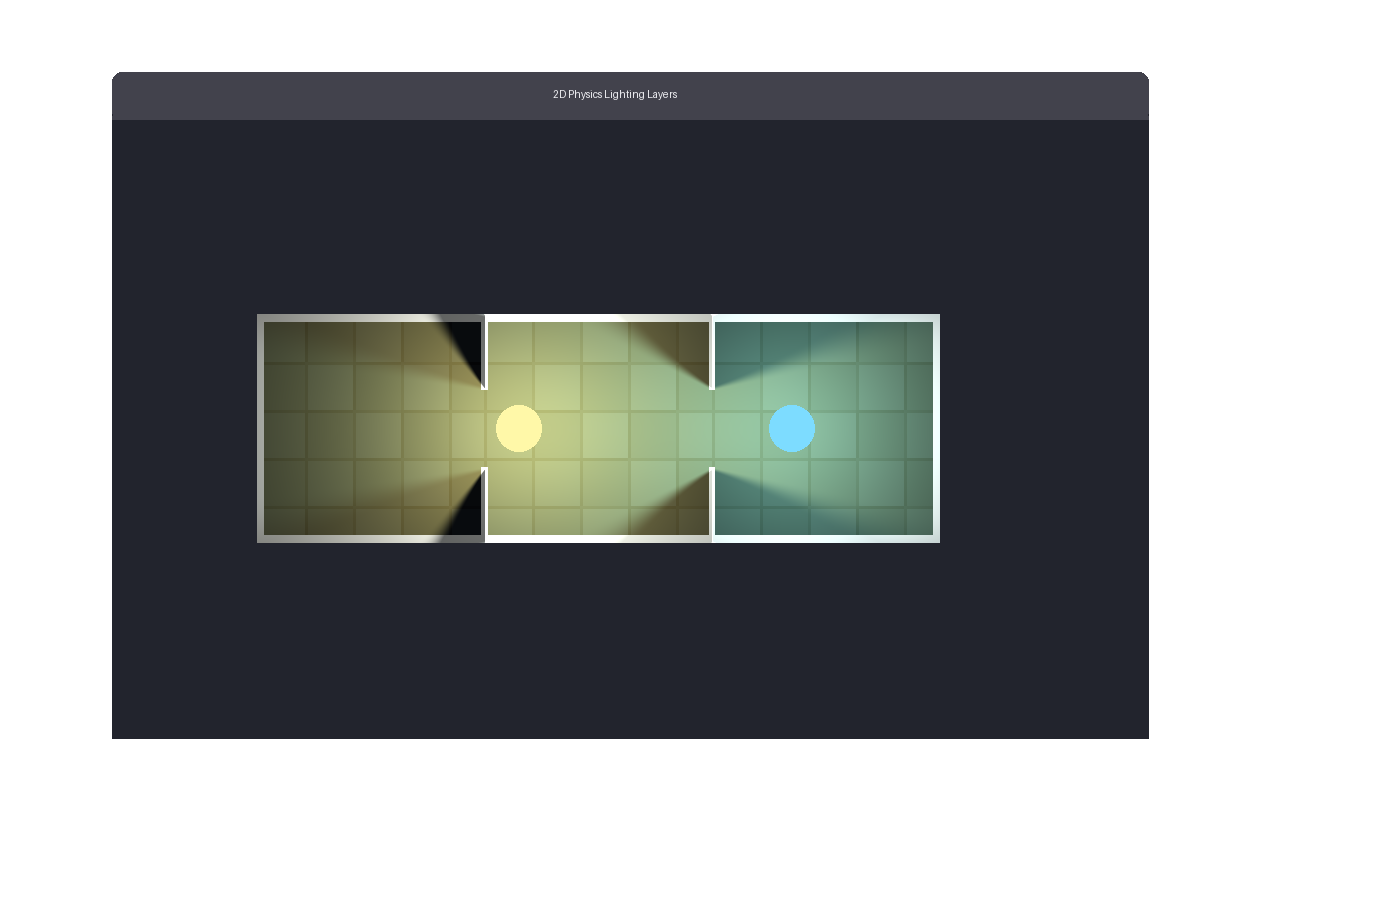
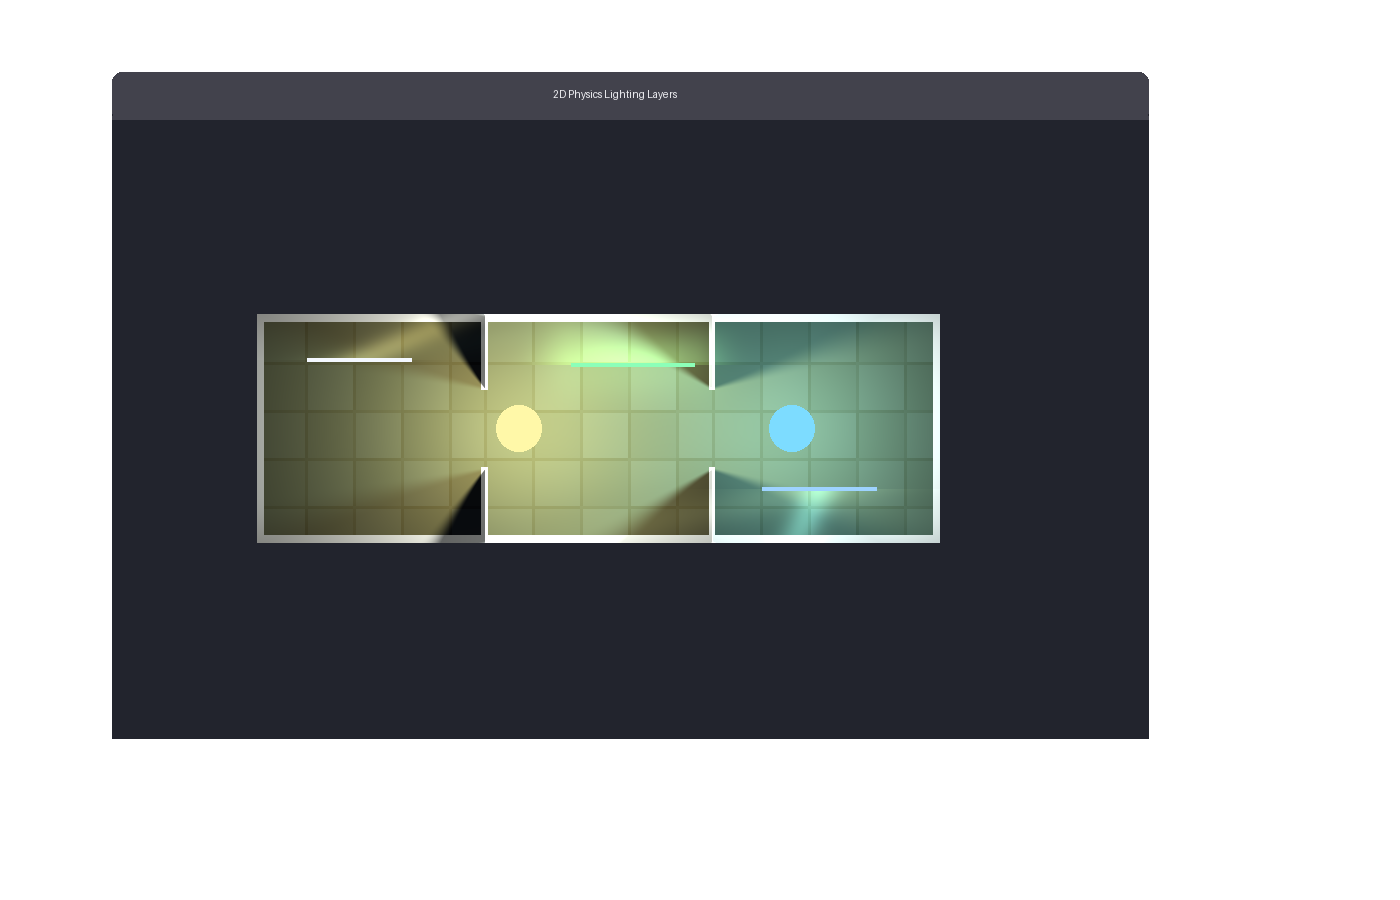
Add 2D optical mirror proof

Changed region(s): [[0.3686, 0.3422, 0.5221, 0.4356], [0.215, 0.3422, 0.3379, 0.4044], [0.5529, 0.5289, 0.6143, 0.5911]]

diff --git a/scripts/render_readme_ui_assets.py b/scripts/render_readme_ui_assets.py
@@ -62,7 +62,7 @@ README_ASSETS: tuple[ReadmeAsset, ...] = (
         marker="ui-physics-layer-lighting",
         example=REPO / "examples" / "generated" / "readme" / "ui_physics_layer_lighting.vkf",
         output_name="ui-physics-layer-lighting.png",
-        caption="`examples/generated/readme/ui_physics_layer_lighting.vkf` — 2D textured floor lighting with soft wall-shadow borders through the middle-third gap.",
+        caption="`examples/generated/readme/ui_physics_layer_lighting.vkf` — 2D textured floor lighting with soft wall-shadow borders, colored mirrors, and tinted window transmission.",
         viewport=(1400, 900),
         wait_ms=1200,
     ),
@@ -489,6 +489,26 @@ def _render_physics_layer_lighting_simulation(asset: ReadmeAsset, out_path: Path
         raise RuntimeError("physics lighting proof must declare two light2d sources")
     light_sources.sort(key=lambda item: str(item["id"]))
 
+    optical_boundaries: list[dict[str, object]] = []
+    for mesh_id, mesh_physics in physics.items():
+        if mesh_physics.get("kind") != "optical_boundary2d":
+            continue
+        x0, y0, x1, y1 = _parse_csv_floats(mesh_physics["segment"], expected=4)
+        optical_boundaries.append(
+            {
+                "id": mesh_id,
+                "kind": str(mesh_physics["optical_kind"]),
+                "segment": (world_to_px((x0, y0)), world_to_px((x1, y1))),
+                "color": _hex_to_rgb(str(mesh_physics.get("color", "#ffffff"))),
+                "reflectivity": float(mesh_physics.get("reflectivity", 0.0)),
+                "transmittance": float(mesh_physics.get("transmittance", 0.0)),
+                "roughness": float(mesh_physics.get("roughness", 0.08)),
+                "tint_strength": float(mesh_physics.get("tint_strength", 1.0)),
+            }
+        )
+    if len(optical_boundaries) < 3:
+        raise RuntimeError("physics lighting proof must declare mirror and window optical boundaries")
+
     shared_xs = [
         room_rects[index][2]
         for index in range(len(room_rects) - 1)
@@ -551,6 +571,52 @@ def _render_physics_layer_lighting_simulation(asset: ReadmeAsset, out_path: Path
             visible = min(visible, 1.0 - smoothstep(0.0, penumbra, edge_dist))
         return visible
 
+    def segment_midpoint(segment: tuple[tuple[float, float], tuple[float, float]]) -> tuple[float, float]:
+        return ((segment[0][0] + segment[1][0]) / 2.0, (segment[0][1] + segment[1][1]) / 2.0)
+
+    def point_to_segment_distance(
+        point: tuple[float, float], segment: tuple[tuple[float, float], tuple[float, float]]
+    ) -> float:
+        ax, ay = segment[0]
+        bx, by = segment[1]
+        px, py = point
+        dx = bx - ax
+        dy = by - ay
+        length2 = dx * dx + dy * dy
+        if length2 <= 0.00001:
+            return math.hypot(px - ax, py - ay)
+        t = max(0.0, min(1.0, ((px - ax) * dx + (py - ay) * dy) / length2))
+        closest = (ax + t * dx, ay + t * dy)
+        return math.hypot(px - closest[0], py - closest[1])
+
+    def signed_side(point: tuple[float, float], segment: tuple[tuple[float, float], tuple[float, float]]) -> float:
+        ax, ay = segment[0]
+        bx, by = segment[1]
+        return (bx - ax) * (point[1] - ay) - (by - ay) * (point[0] - ax)
+
+    def reflect_point_across_segment_line(
+        point: tuple[float, float], segment: tuple[tuple[float, float], tuple[float, float]]
+    ) -> tuple[float, float]:
+        ax, ay = segment[0]
+        bx, by = segment[1]
+        px, py = point
+        dx = bx - ax
+        dy = by - ay
+        length2 = dx * dx + dy * dy
+        if length2 <= 0.00001:
+            return point
+        t = ((px - ax) * dx + (py - ay) * dy) / length2
+        foot = (ax + t * dx, ay + t * dy)
+        return (2.0 * foot[0] - px, 2.0 * foot[1] - py)
+
+    def line_distance(point: tuple[float, float], a: tuple[float, float], b: tuple[float, float]) -> float:
+        dx = b[0] - a[0]
+        dy = b[1] - a[1]
+        denom = math.hypot(dx, dy)
+        if denom <= 0.00001:
+            return math.hypot(point[0] - a[0], point[1] - a[1])
+        return abs(dy * point[0] - dx * point[1] + b[0] * a[1] - b[1] * a[0]) / denom
+
     def floor_texture(x: int, y: int) -> tuple[float, float, float]:
         room_left = next(room for room in room_rects if room[0] <= x < room[2] and room[1] <= y < room[3])
         lx = x - room_left[0]
@@ -580,6 +646,57 @@ def _render_physics_layer_lighting_simulation(asset: ReadmeAsset, out_path: Path
             visible = max(visible, 0.22)
         return visible / (1.0 + (dist / falloff) ** 2)
 
+    def tinted_color(
+        light: dict[str, object], tint: tuple[float, float, float], tint_strength: float
+    ) -> tuple[float, float, float]:
+        source = light["color"]
+        assert isinstance(source, tuple)
+        mix = max(0.0, min(1.0, tint_strength))
+        return (
+            source[0] * (1.0 - mix) + source[0] * (tint[0] / 255.0) * mix,
+            source[1] * (1.0 - mix) + source[1] * (tint[1] / 255.0) * mix,
+            source[2] * (1.0 - mix) + source[2] * (tint[2] / 255.0) * mix,
+        )
+
+    def optical_strengths_at(x: float, y: float) -> list[tuple[dict[str, object], float]]:
+        target = (x, y)
+        strengths: list[tuple[dict[str, object], float]] = []
+        for boundary in optical_boundaries:
+            segment = boundary["segment"]
+            color = boundary["color"]
+            assert isinstance(segment, tuple)
+            assert isinstance(color, tuple)
+            midpoint = segment_midpoint(segment)
+            distance_to_boundary = point_to_segment_distance(target, segment)
+            for light in light_sources:
+                center = light["center"]
+                assert isinstance(center, tuple)
+                incoming = light_strength_for_source(light, midpoint[0], midpoint[1], wall=True)
+                opposite_side = signed_side(target, segment) * signed_side(center, segment) < 0.0
+                if float(boundary["reflectivity"]) > 0.0 and opposite_side:
+                    reflected = reflect_point_across_segment_line(center, segment)
+                    beam_width = square * (0.045 + 0.30 * float(boundary["roughness"]))
+                    beam_distance = line_distance(target, reflected, midpoint)
+                    spread = math.exp(-((beam_distance / beam_width) ** 2))
+                    reach = 1.0 / (1.0 + (math.hypot(x - midpoint[0], y - midpoint[1]) / (square * 0.62)) ** 2)
+                    strengths.append(
+                        (
+                            {"color": tinted_color(light, color, 0.42)},
+                            incoming * float(boundary["reflectivity"]) * spread * reach,
+                        )
+                    )
+                if float(boundary["transmittance"]) > 0.0:
+                    side_factor = 1.0 if opposite_side else 0.32
+                    band = math.exp(-((distance_to_boundary / (square * 0.16)) ** 2))
+                    reach = 1.0 / (1.0 + (math.hypot(x - midpoint[0], y - midpoint[1]) / (square * 0.50)) ** 2)
+                    strengths.append(
+                        (
+                            {"color": tinted_color(light, color, float(boundary["tint_strength"]))},
+                            incoming * float(boundary["transmittance"]) * side_factor * band * reach,
+                        )
+                    )
+        return strengths
+
     def shade_material(
         material: tuple[float, float, float],
         strengths: list[tuple[dict[str, object], float]],
@@ -605,6 +722,7 @@ def _render_physics_layer_lighting_simulation(asset: ReadmeAsset, out_path: Path
             if not inside_rooms(x, y):
                 continue
             strengths = [(light, light_strength_for_source(light, x, y)) for light in light_sources]
+            strengths.extend(optical_strengths_at(x, y))
             image.putpixel((x, y), shade_material(floor_texture(x, y), strengths, diffuse=0.42, glow=0.58))
 
     def wall_texture(x: int, y: int) -> tuple[float, float, float]:
@@ -614,10 +732,22 @@ def _render_physics_layer_lighting_simulation(asset: ReadmeAsset, out_path: Path
         for y in range(rect[1], rect[3]):
             for x in range(rect[0], rect[2]):
                 strengths = [(light, light_strength_for_source(light, x, y, wall=True)) for light in light_sources]
+                strengths.extend(optical_strengths_at(x, y))
                 image.putpixel(
                     (x, y),
                     shade_material(wall_texture(x, y), strengths, diffuse=1.05, glow=0.26),
                 )
+
+    for boundary in optical_boundaries:
+        segment = boundary["segment"]
+        color = boundary["color"]
+        assert isinstance(segment, tuple)
+        assert isinstance(color, tuple)
+        draw.line(
+            (int(segment[0][0]), int(segment[0][1]), int(segment[1][0]), int(segment[1][1])),
+            fill=tuple(int(channel) for channel in color),
+            width=max(3, int(square * 0.018)),
+        )
 
     for light in light_sources:
         center = light["center"]
@@ -648,22 +778,28 @@ def _verify_physics_layer_lighting_capture(path: Path) -> None:
         raise RuntimeError(f"expected physics lighting proof to be 1400x900, got {image.size}")
 
     samples = {
-        "left room textured floor lit by computed lights": ((400, 360), (111, 108, 71), 10),
+        "left room textured floor lit by computed lights": ((400, 380), (126, 130, 87), 10),
         "circular light source": ((520, 430), (255, 248, 168), 10),
         "blue circular light source": ((792, 430), (125, 220, 255), 10),
+        "silver mirror optical boundary": ((400, 360), (244, 248, 255), 10),
+        "green tinted window optical boundary": ((630, 365), (140, 255, 184), 10),
+        "blue tinted mirror optical boundary": ((820, 489), (158, 211, 255), 10),
+        "green window transmitted glow": ((610, 345), (203, 250, 169), 10),
+        "blue mirror reflected glow": ((810, 510), (122, 193, 170), 10),
+        "silver mirror reflected glow": ((430, 340), (141, 137, 85), 10),
         "shader-lit left shared wall": ((486, 330), (255, 255, 255), 10),
         "left shared middle-third lit gap": ((486, 430), (176, 179, 111), 10),
-        "left room blocked shadow wedge": ((470, 345), (8, 11, 13), 10),
-        "middle room blended yellow-blue floor": ((610, 430), (181, 201, 146), 10),
-        "shader-lit right shared wall": ((713, 330), (242, 255, 255), 10),
-        "right shared middle-third lit gap": ((713, 430), (142, 179, 136), 10),
+        "left room blocked shadow wedge": ((470, 345), (11, 16, 18), 10),
+        "middle room blended yellow-blue floor": ((610, 430), (181, 202, 146), 10),
+        "shader-lit right shared wall": ((713, 330), (255, 255, 255), 10),
+        "right shared middle-third lit gap": ((713, 430), (142, 180, 136), 10),
         "right blue-lit textured floor": ((850, 430), (125, 172, 146), 10),
-        "right room shadow above cone": ((760, 345), (68, 107, 94), 10),
+        "right room shadow above cone": ((760, 345), (68, 109, 95), 10),
         "shader-lit right outer square wall": ((937, 430), (243, 255, 255), 10),
         "floor texture seam": ((355, 430), (100, 102, 66), 10),
         "floor texture tile body": ((390, 430), (129, 134, 93), 10),
         "yellow cone soft edge": ((450, 382), (142, 141, 85), 10),
-        "blue cone soft edge": ((760, 500), (72, 114, 101), 10),
+        "blue cone soft edge": ((760, 500), (91, 133, 112), 10),
     }
     for label, (xy, expected, tolerance) in samples.items():
         try:

diff --git a/tests/test_readme_surface.py b/tests/test_readme_surface.py
@@ -95,6 +95,36 @@ class TestReadmeGeneratedExamples:
             "penumbra_growth_ratio": 0.16,
             "falloff_radius_ratio": 0.7666666667,
         }
+        assert meshes["layer_1_silver_floor_mirror"]["physics"] == {
+            "kind": "optical_boundary2d",
+            "layer": 1,
+            "optical_kind": "mirror",
+            "segment": "-1.28,-0.30,-0.82,-0.30",
+            "reflectivity": 0.72,
+            "transmittance": 0.0,
+            "color": "#f4f8ff",
+            "roughness": 0.04,
+        }
+        assert meshes["layer_1_green_tinted_window"]["physics"] == {
+            "kind": "optical_boundary2d",
+            "layer": 1,
+            "optical_kind": "tinted_window",
+            "segment": "-0.12,-0.28,0.42,-0.28",
+            "reflectivity": 0.08,
+            "transmittance": 0.62,
+            "color": "#8cffb8",
+            "tint_strength": 0.78,
+        }
+        assert meshes["layer_1_blue_tinted_mirror"]["physics"] == {
+            "kind": "optical_boundary2d",
+            "layer": 1,
+            "optical_kind": "colored_mirror",
+            "segment": "0.72,0.26,1.22,0.26",
+            "reflectivity": 0.68,
+            "transmittance": 0.0,
+            "color": "#9ed3ff",
+            "roughness": 0.10,
+        }
 
 
 class TestStringInterpolation:

diff --git a/README.md b/README.md
@@ -1651,11 +1651,104 @@ g.add(
     illuminates_lower_layers: true
   )
 )
+
+silver_mirror_x: [[-1.28, -0.82], [-1.28, -0.82]] -> uv
+silver_mirror_y: [[-0.30, -0.30], [-0.30, -0.30]] -> uv
+silver_mirror_z: [[0.0, 0.0], [0.0, 0.0]] -> uv
+silver_mirror_c: [
+  [[0.92, 0.96, 1.0, 1.0], [0.92, 0.96, 1.0, 1.0]],
+  [[0.92, 0.96, 1.0, 1.0], [0.92, 0.96, 1.0, 1.0]]
+] -> uv
+g.add(
+  id: "layer_1_silver_floor_mirror",
+  x: silver_mirror_x,
+  y: silver_mirror_y,
+  z: silver_mirror_z,
+  c: silver_mirror_c,
+  representation: "lines",
+  render_mode: "proxy_geometry",
+  mode3d: false,
+  aspect: "equal",
+  axis_full_frame: true,
+  receives_lighting: false,
+  physics: (
+    kind: "optical_boundary2d",
+    layer: 1,
+    optical_kind: "mirror",
+    segment: "-1.28,-0.30,-0.82,-0.30",
+    reflectivity: 0.72,
+    transmittance: 0.0,
+    color: "#f4f8ff",
+    roughness: 0.04
+  )
+)
+
+green_window_x: [[-0.12, 0.42], [-0.12, 0.42]] -> uv
+green_window_y: [[-0.28, -0.28], [-0.28, -0.28]] -> uv
+green_window_z: [[0.0, 0.0], [0.0, 0.0]] -> uv
+green_window_c: [
+  [[0.55, 1.0, 0.72, 0.9], [0.55, 1.0, 0.72, 0.9]],
+  [[0.55, 1.0, 0.72, 0.9], [0.55, 1.0, 0.72, 0.9]]
+] -> uv
+g.add(
+  id: "layer_1_green_tinted_window",
+  x: green_window_x,
+  y: green_window_y,
+  z: green_window_z,
+  c: green_window_c,
+  representation: "lines",
+  render_mode: "proxy_geometry",
+  mode3d: false,
+  aspect: "equal",
+  axis_full_frame: true,
+  receives_lighting: false,
+  physics: (
+    kind: "optical_boundary2d",
+    layer: 1,
+    optical_kind: "tinted_window",
+    segment: "-0.12,-0.28,0.42,-0.28",
+    reflectivity: 0.08,
+    transmittance: 0.62,
+    color: "#8cffb8",
+    tint_strength: 0.78
+  )
+)
+
+blue_mirror_x: [[0.72, 1.22], [0.72, 1.22]] -> uv
+blue_mirror_y: [[0.26, 0.26], [0.26, 0.26]] -> uv
+blue_mirror_z: [[0.0, 0.0], [0.0, 0.0]] -> uv
+blue_mirror_c: [
+  [[0.62, 0.83, 1.0, 1.0], [0.62, 0.83, 1.0, 1.0]],
+  [[0.62, 0.83, 1.0, 1.0], [0.62, 0.83, 1.0, 1.0]]
+] -> uv
+g.add(
+  id: "layer_1_blue_tinted_mirror",
+  x: blue_mirror_x,
+  y: blue_mirror_y,
+  z: blue_mirror_z,
+  c: blue_mirror_c,
+  representation: "lines",
+  render_mode: "proxy_geometry",
+  mode3d: false,
+  aspect: "equal",
+  axis_full_frame: true,
+  receives_lighting: false,
+  physics: (
+    kind: "optical_boundary2d",
+    layer: 1,
+    optical_kind: "colored_mirror",
+    segment: "0.72,0.26,1.22,0.26",
+    reflectivity: 0.68,
+    transmittance: 0.0,
+    color: "#9ed3ff",
+    roughness: 0.10
+  )
+)
 ```
 
 <!-- readme-asset: ui-physics-layer-lighting -->
 ![ui-physics-layer-lighting](docs/public/images/readme-ui/ui-physics-layer-lighting.png)
-*`examples/generated/readme/ui_physics_layer_lighting.vkf` — 2D textured floor lighting with soft wall-shadow borders through the middle-third gap.*
+*`examples/generated/readme/ui_physics_layer_lighting.vkf` — 2D textured floor lighting with soft wall-shadow borders, colored mirrors, and tinted window transmission.*
 
 ### Native Scene Packets
 